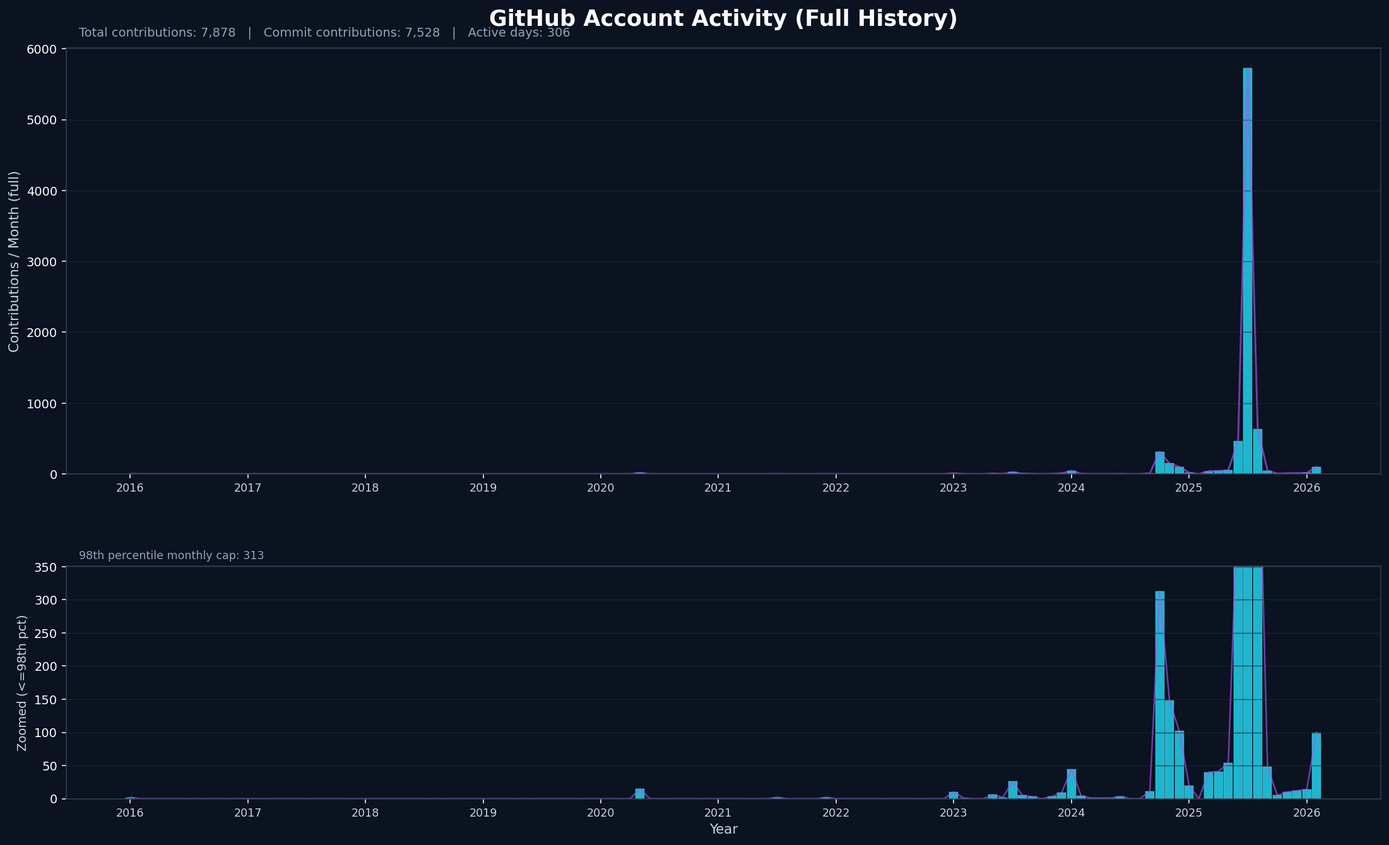
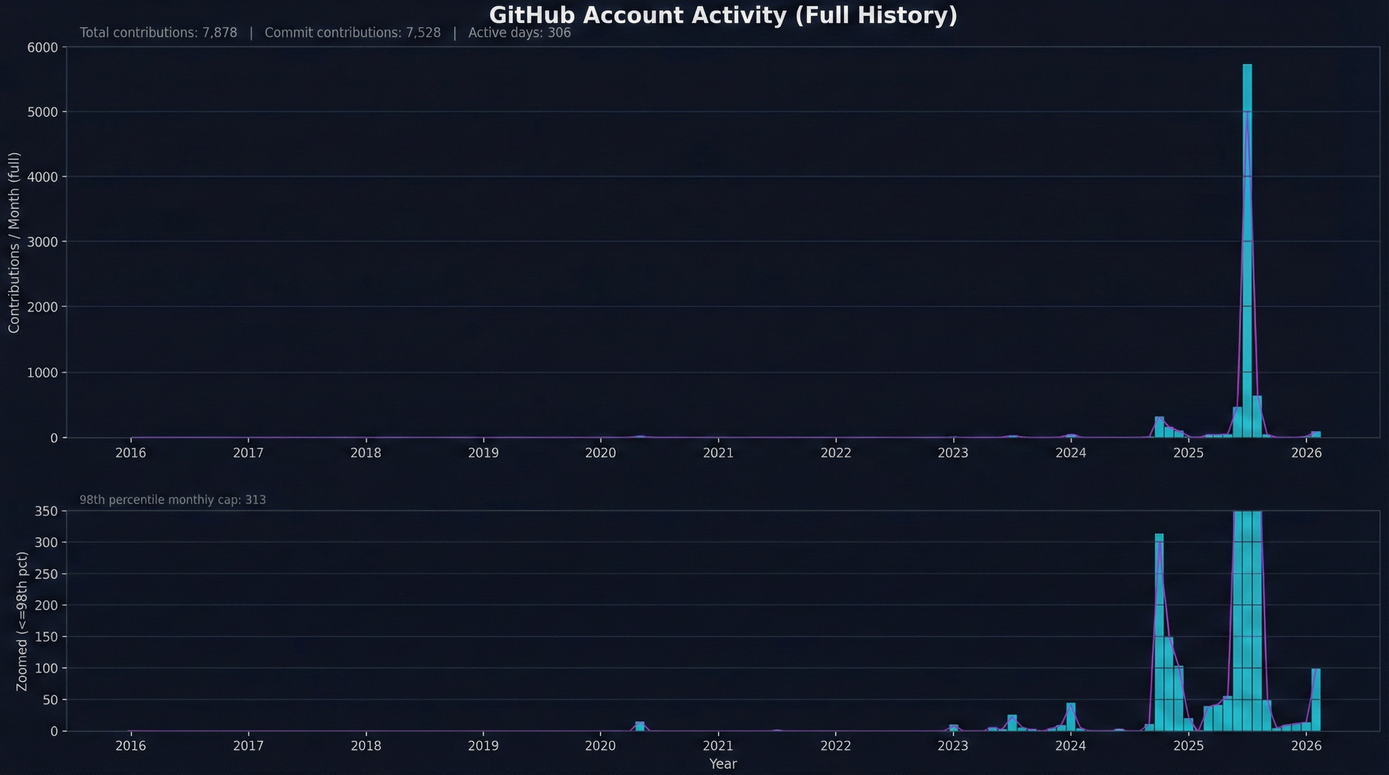
feat: publish NBP-stylized account activity chart

diff --git a/scripts/build_account_activity.py b/scripts/build_account_activity.py
@@ -113,6 +113,7 @@ def parse_args() -> argparse.Namespace:
     parser.add_argument("--projects-root", default=str(Path.home() / "Dropbox/Projects"))
     parser.add_argument("--out-json", required=True)
     parser.add_argument("--out-chart", required=True)
+    parser.add_argument("--nbp-note", default="")
     return parser.parse_args()
 
 
@@ -355,7 +356,7 @@ def main() -> None:
         "estimated_source_loc": estimated_source_loc,
         "loc_scope_note": "Estimated from local tracked source files across showcase repos; excludes vendored directories and non-code vault content.",
         "monthly_contributions": monthly,
-        "nbp_note": "NBP generation attempt failed in this run due API credits (code 402). Chart generated from real GitHub data.",
+        "nbp_note": str(args.nbp_note).strip(),
     }
 
     out_json.parent.mkdir(parents=True, exist_ok=True)

diff --git a/README.md b/README.md
@@ -20,7 +20,7 @@ Selected work from private repos, shared as sanitized summaries.
 - Longest streak: 49 days
 - Estimated source LOC: 317,165
 - LOC scope: Estimated from local tracked source files across showcase repos; excludes vendored directories and non-code vault content.
-- NBP note: NBP generation attempt failed in this run due API credits (code 402). Chart generated from real GitHub data.
+- NBP note: NBP-stylized chart generated via nano-banana-pro on 2026-02-21 using full-history GitHub contribution data.
 
 ![Account Activity Chart](assets/stats/account_activity_chart.png)
 
